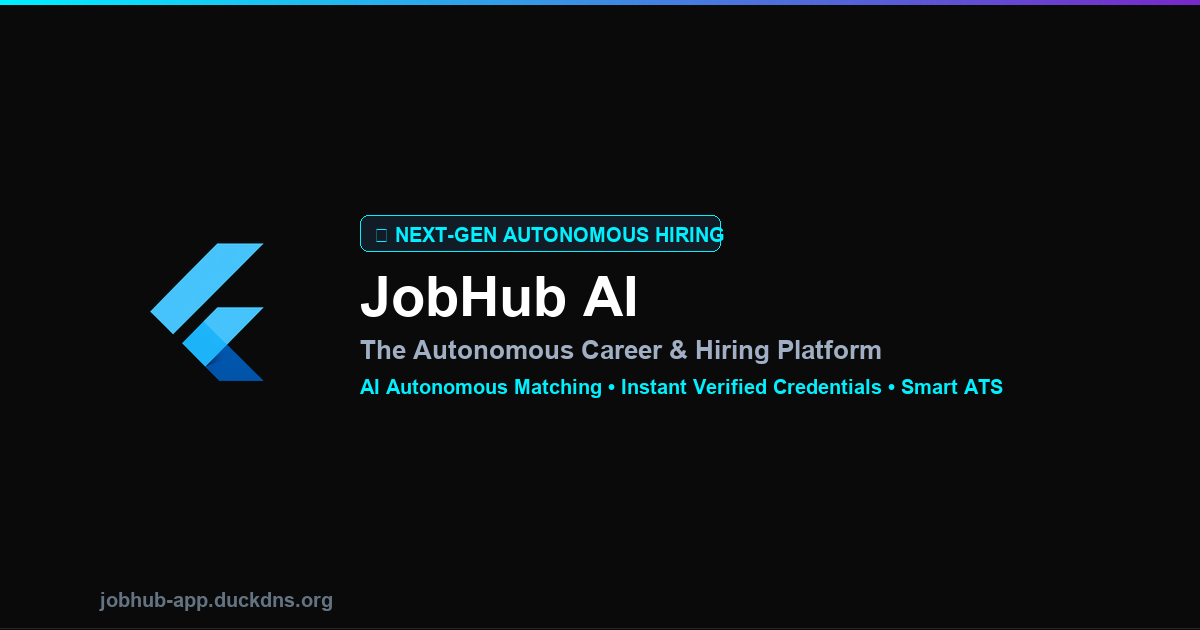
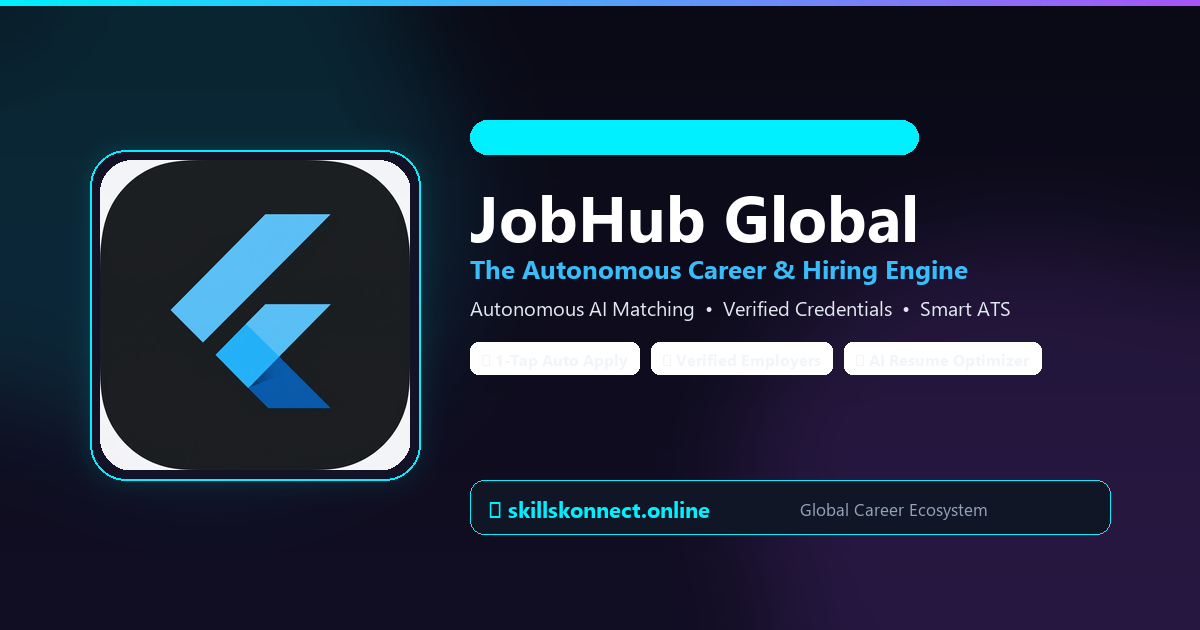
fix(seo): update social share OG preview image with JobHub Global branding and cache-buster

diff --git a/web/src/app/layout.tsx b/web/src/app/layout.tsx
@@ -55,7 +55,7 @@ export const metadata: Metadata = {
       'Autonomous AI job matching, 1-tap applications, verified credentials, and smart ATS optimization.',
     images: [
       {
-        url: '/og-image.png',
+        url: '/jobhub-global-og.png?v=2026',
         width: 1200,
         height: 630,
         alt: 'JobHub Global - The Autonomous Career & Hiring Engine',
@@ -67,7 +67,7 @@ export const metadata: Metadata = {
     title: 'JobHub Global - The Autonomous Career & Hiring Engine',
     description:
       'Autonomous AI job matching, 1-tap applications, verified credentials, and smart ATS optimization.',
-    images: ['/og-image.png'],
+    images: ['/jobhub-global-og.png?v=2026'],
     creator: '@jobhubglobal',
   },
   robots: {

diff --git a/scripts/generate_og_image.py b/scripts/generate_og_image.py
@@ -1,0 +1,156 @@
+import os
+from PIL import Image, ImageDraw, ImageFont, ImageFilter
+
+def create_rounded_mask(size, radius):
+    mask = Image.new('L', size, 0)
+    draw = ImageDraw.Draw(mask)
+    draw.rounded_rectangle([(0, 0), size], radius=radius, fill=255)
+    return mask
+
+def generate_og():
+    W, H = 1200, 630
+    base = Image.new('RGBA', (W, H), (10, 10, 20, 255))
+    draw = ImageDraw.Draw(base)
+
+    # 1. High-tech subtle dark gradient
+    for y in range(H):
+        ratio = y / H
+        r = int(10 + (18 - 10) * ratio)
+        g = int(10 + (14 - 10) * ratio)
+        b = int(22 + (36 - 22) * ratio)
+        draw.line([(0, y), (W, y)], fill=(r, g, b, 255))
+
+    # 2. Ambient neon glows (cyan on top-left, deep purple on bottom-right)
+    glow = Image.new('RGBA', (W, H), (0, 0, 0, 0))
+    glow_draw = ImageDraw.Draw(glow)
+    glow_draw.ellipse([(-80, -80), (500, 500)], fill=(0, 240, 255, 30))
+    glow_draw.ellipse([(700, 200), (1350, 750)], fill=(168, 85, 247, 35))
+    glow = glow.filter(ImageFilter.GaussianBlur(60))
+    base = Image.alpha_composite(base, glow)
+
+    # 3. Top accent brand gradient strip
+    strip = Image.new('RGBA', (W, 6), (0, 0, 0, 0))
+    strip_draw = ImageDraw.Draw(strip)
+    for x in range(W):
+        ratio = x / W
+        r = int(0 + (168 - 0) * ratio)
+        g = int(240 + (85 - 240) * ratio)
+        b = int(255 + (247 - 255) * ratio)
+        strip_draw.line([(x, 0), (x, 5)], fill=(r, g, b, 255))
+    base.paste(strip, (0, 0), strip)
+
+    draw = ImageDraw.Draw(base)
+
+    # Fonts
+    font_dir = "C:/Windows/Fonts"
+    def get_font(name, size):
+        path = os.path.join(font_dir, name)
+        if os.path.exists(path):
+            try:
+                return ImageFont.truetype(path, size)
+            except Exception:
+                pass
+        return ImageFont.load_default()
+
+    font_badge = get_font("segoeuib.ttf", 15)
+    font_title = get_font("segoeuib.ttf", 64)
+    font_sub = get_font("segoeuib.ttf", 26)
+    font_desc = get_font("segoeui.ttf", 20)
+    font_pill = get_font("segoeuib.ttf", 16)
+    font_url = get_font("segoeuib.ttf", 22)
+    font_tagline = get_font("segoeui.ttf", 17)
+
+    # 4. Logo placement in a stylish rounded card (left side)
+    logo_path = 'web/public/logo.png'
+    if os.path.exists(logo_path):
+        logo_img = Image.open(logo_path).convert('RGBA')
+        logo_size = (310, 310)
+        logo_resized = logo_img.resize(logo_size, Image.Resampling.LANCZOS)
+        
+        # Rounded mask for logo
+        mask = create_rounded_mask(logo_size, radius=32)
+        
+        # Outer glow/border card
+        card_x, card_y = 90, 150
+        card_w, card_h = 330, 330
+        
+        # Card glow shadow
+        shadow = Image.new('RGBA', (W, H), (0, 0, 0, 0))
+        sh_draw = ImageDraw.Draw(shadow)
+        sh_draw.rounded_rectangle(
+            [(card_x - 10, card_y - 10), (card_x + card_w + 10, card_y + card_h + 10)],
+            radius=40,
+            fill=(0, 240, 255, 30)
+        )
+        shadow = shadow.filter(ImageFilter.GaussianBlur(15))
+        base = Image.alpha_composite(base, shadow)
+        draw = ImageDraw.Draw(base)
+
+        # Card container with border
+        draw.rounded_rectangle(
+            [(card_x, card_y), (card_x + card_w, card_y + card_h)],
+            radius=36,
+            fill=(20, 18, 38, 240),
+            outline=(0, 240, 255, 180),
+            width=2
+        )
+        
+        # Paste logo inside card
+        base.paste(logo_resized, (card_x + 10, card_y + 10), mask)
+
+    # 5. Right-side content layout
+    rx = 470
+
+    # Badge: NEXT-GEN AUTONOMOUS HIRING & TALENT NETWORK
+    badge_text = "⚡ NEXT-GEN AUTONOMOUS HIRING & TALENT NETWORK"
+    badge_bbox = font_badge.getbbox(badge_text)
+    bw = (badge_bbox[2] - badge_bbox[0]) + 30
+    bh = 34
+    by = 120
+    draw.rounded_rectangle([(rx, by), (rx + bw, by + bh)], radius=17, fill=(0, 240, 255, 30), outline=(0, 240, 255, 110), width=1)
+    draw.text((rx + 15, by + 7), badge_text, font=font_badge, fill=(0, 240, 255, 255))
+
+    # Main Title: JobHub Global
+    ty = 172
+    draw.text((rx, ty), "JobHub Global", font=font_title, fill=(255, 255, 255, 255))
+
+    # Subtitle: The Autonomous Career & Hiring Engine
+    sy = ty + 78
+    draw.text((rx, sy), "The Autonomous Career & Hiring Engine", font=font_sub, fill=(56, 189, 248, 255))
+
+    # Key highlights
+    dy = sy + 44
+    draw.text((rx, dy), "Autonomous AI Matching  •  Verified Credentials  •  Smart ATS", font=font_desc, fill=(226, 232, 240, 230))
+
+    # Feature pills
+    py = dy + 48
+    pills = [
+        "✓ 1-Tap Auto Apply",
+        "✓ Verified Employers",
+        "✓ AI Resume Optimizer"
+    ]
+    px = rx
+    for p in pills:
+        pb = font_pill.getbbox(p)
+        pw = (pb[2] - pb[0]) + 22
+        ph = 32
+        draw.rounded_rectangle([(px, py), (px + pw, py + ph)], radius=8, fill=(255, 255, 255, 15), outline=(255, 255, 255, 35), width=1)
+        draw.text((px + 11, py + 6), p, font=font_pill, fill=(241, 245, 249, 240))
+        px += pw + 12
+
+    # Bottom footer card
+    fy = 480
+    fw = 640
+    fh = 54
+    draw.rounded_rectangle([(rx, fy), (rx + fw, fy + fh)], radius=14, fill=(16, 22, 38, 200), outline=(0, 240, 255, 70), width=1)
+    draw.text((rx + 18, fy + 14), "🌐 skillskonnect.online", font=font_url, fill=(0, 240, 255, 255))
+    draw.text((rx + 330, fy + 17), "Global Career Ecosystem", font=font_tagline, fill=(148, 163, 184, 255))
+
+    # Save to both target files
+    final_rgb = base.convert('RGB')
+    final_rgb.save('web/public/og-image.png', quality=95)
+    final_rgb.save('web/public/jobhub-global-og.png', quality=95)
+    print("SUCCESS: Generated web/public/og-image.png and web/public/jobhub-global-og.png (1200x630)")
+
+if __name__ == '__main__':
+    generate_og()
